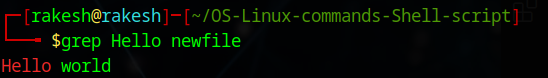
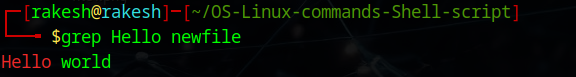
COMPARING FILES

diff --git a/README.md b/README.md
@@ -113,27 +113,27 @@ hello world
 grep Hello newfile 
 ## OUTPUT
 ![Alt text](grep.png)
+
 grep -v hello newfile 
 ## OUTPUT
-![Alt text](<grep -v.png>)
+![Alt text](grepv.png)
 
 cat newfile | grep -i "hello"
 ## OUTPUT
-![Alt text](<grep -i.png>)
+![Alt text](grepi.png)
 
 
 cat newfile | grep -i -c "hello"
 ## OUTPUT
-![Alt text](<grep -i -c.png>)
+![Alt text](grepic.png)
 
 grep -R ubuntu /etc
 ## OUTPUT
-
-![Alt text](<grep -R.png>)
+![Alt text](grepr.png)
 
 grep -w -n world newfile   
 ## OUTPUT
-![Alt text](<grep -w -n.png>)
+![Alt text](grepwn.png)
 
 cat > newfile 
 ```
@@ -361,12 +361,10 @@ tar -cvf backup.tar *
 ## OUTPUT
 ![Alt text](tar.png)
 
-mkdir backupdir
- 
+mkdir backupdi
 mv backup.tar backupdir
-
 cd backupdir
- 
+
 tar -tvf backup.tar
 ## OUTPUT
 ![Alt text](<tar -tvf.png>)
